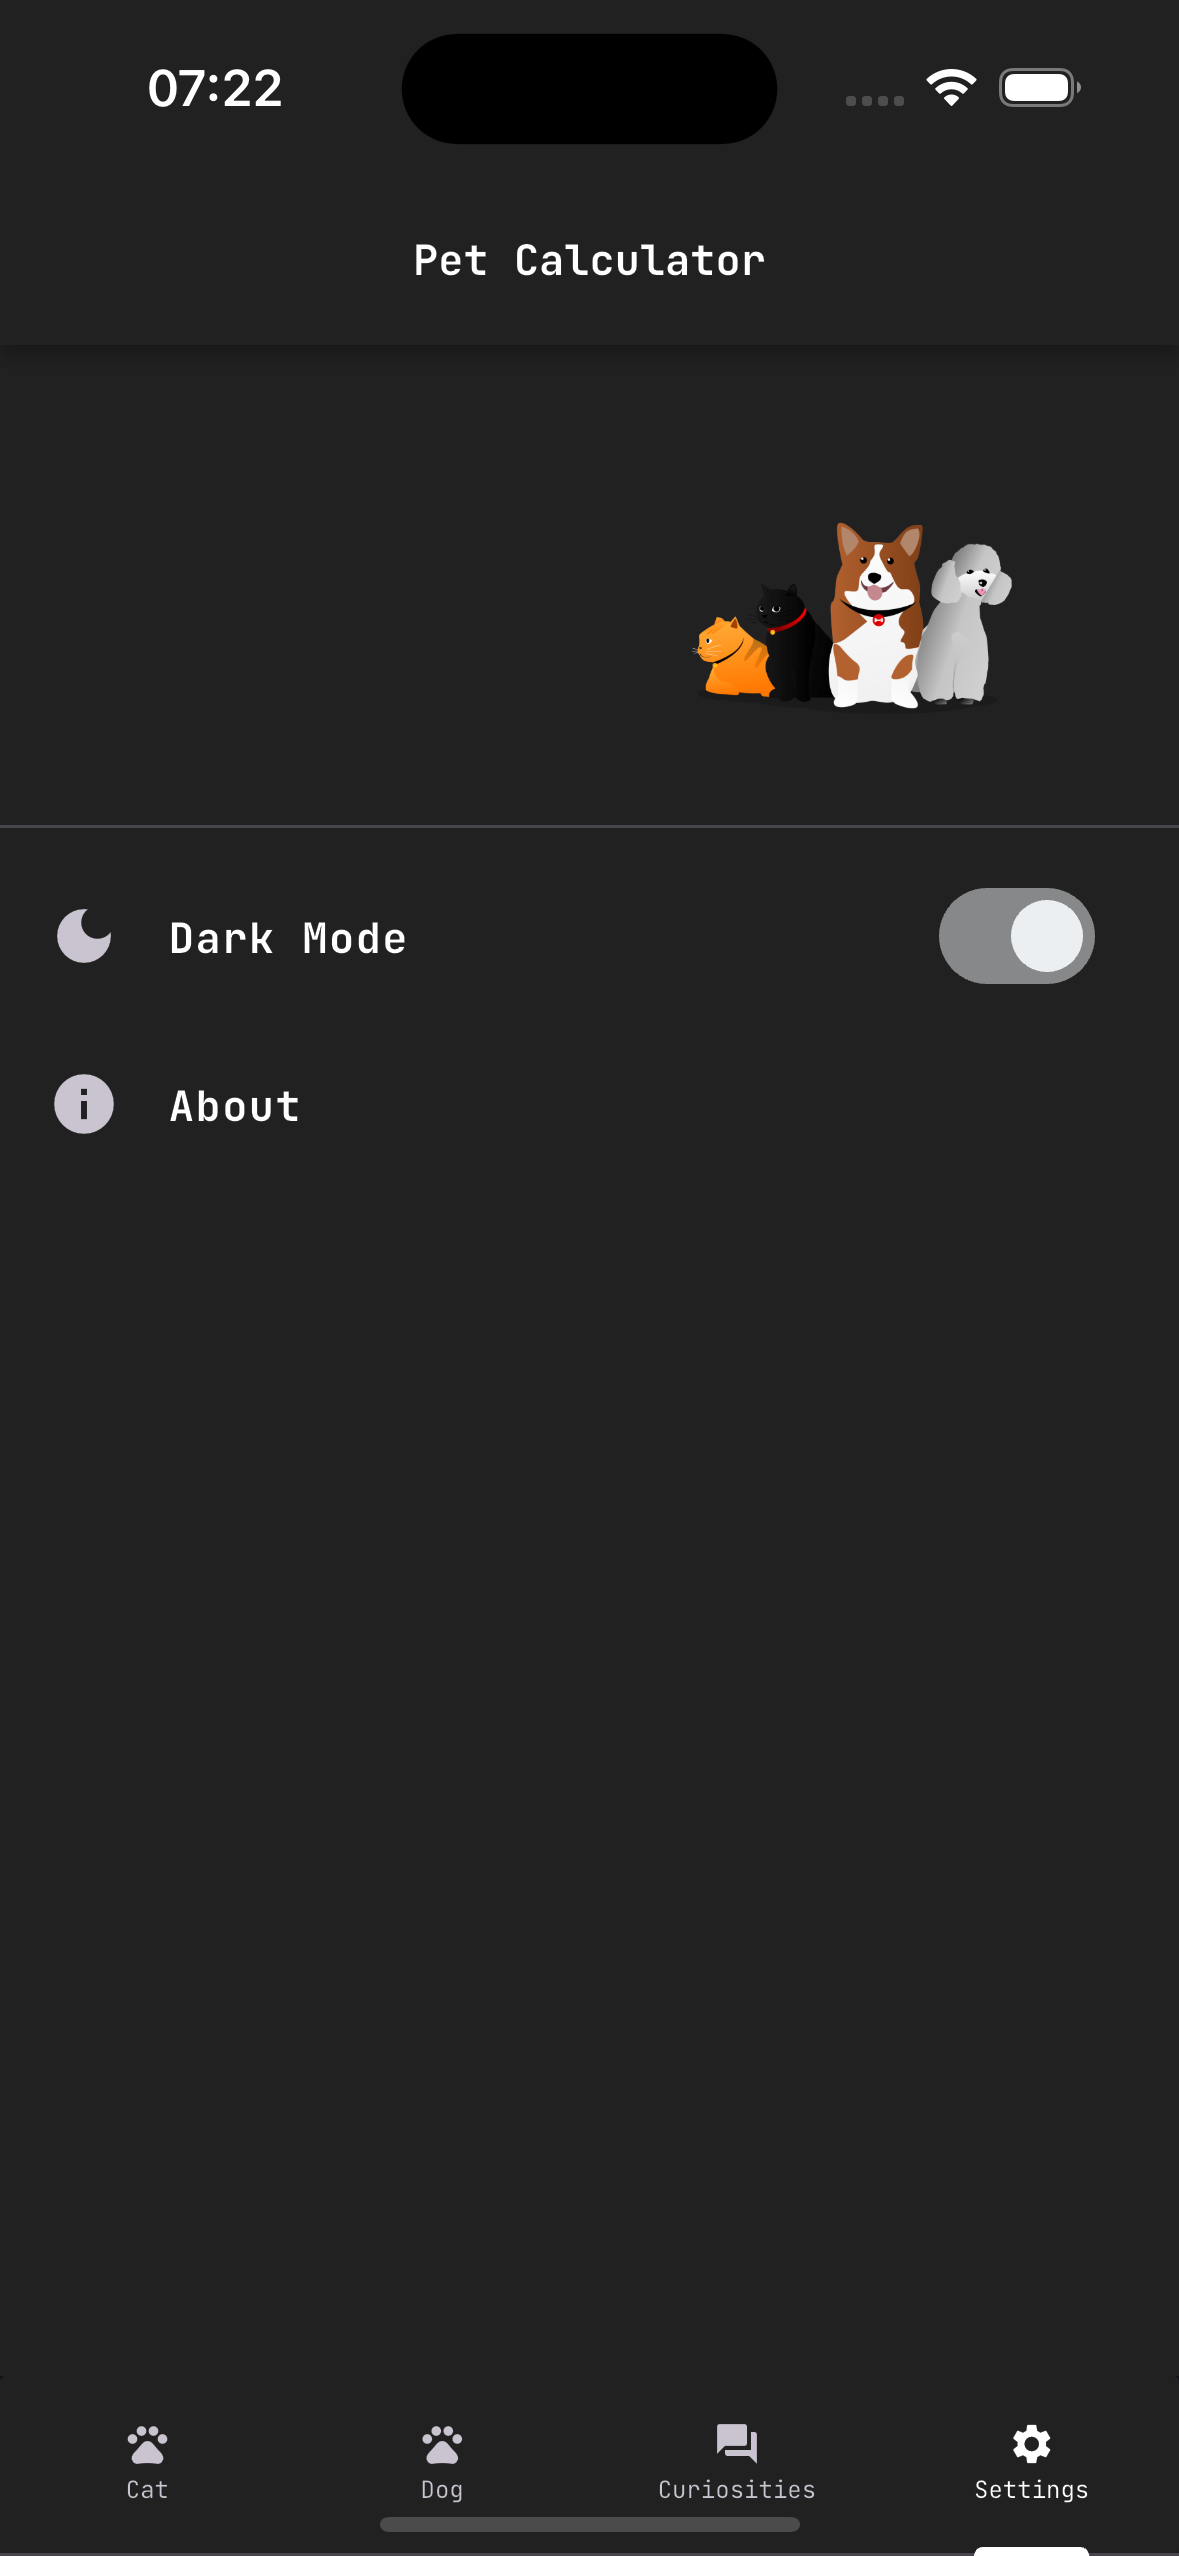
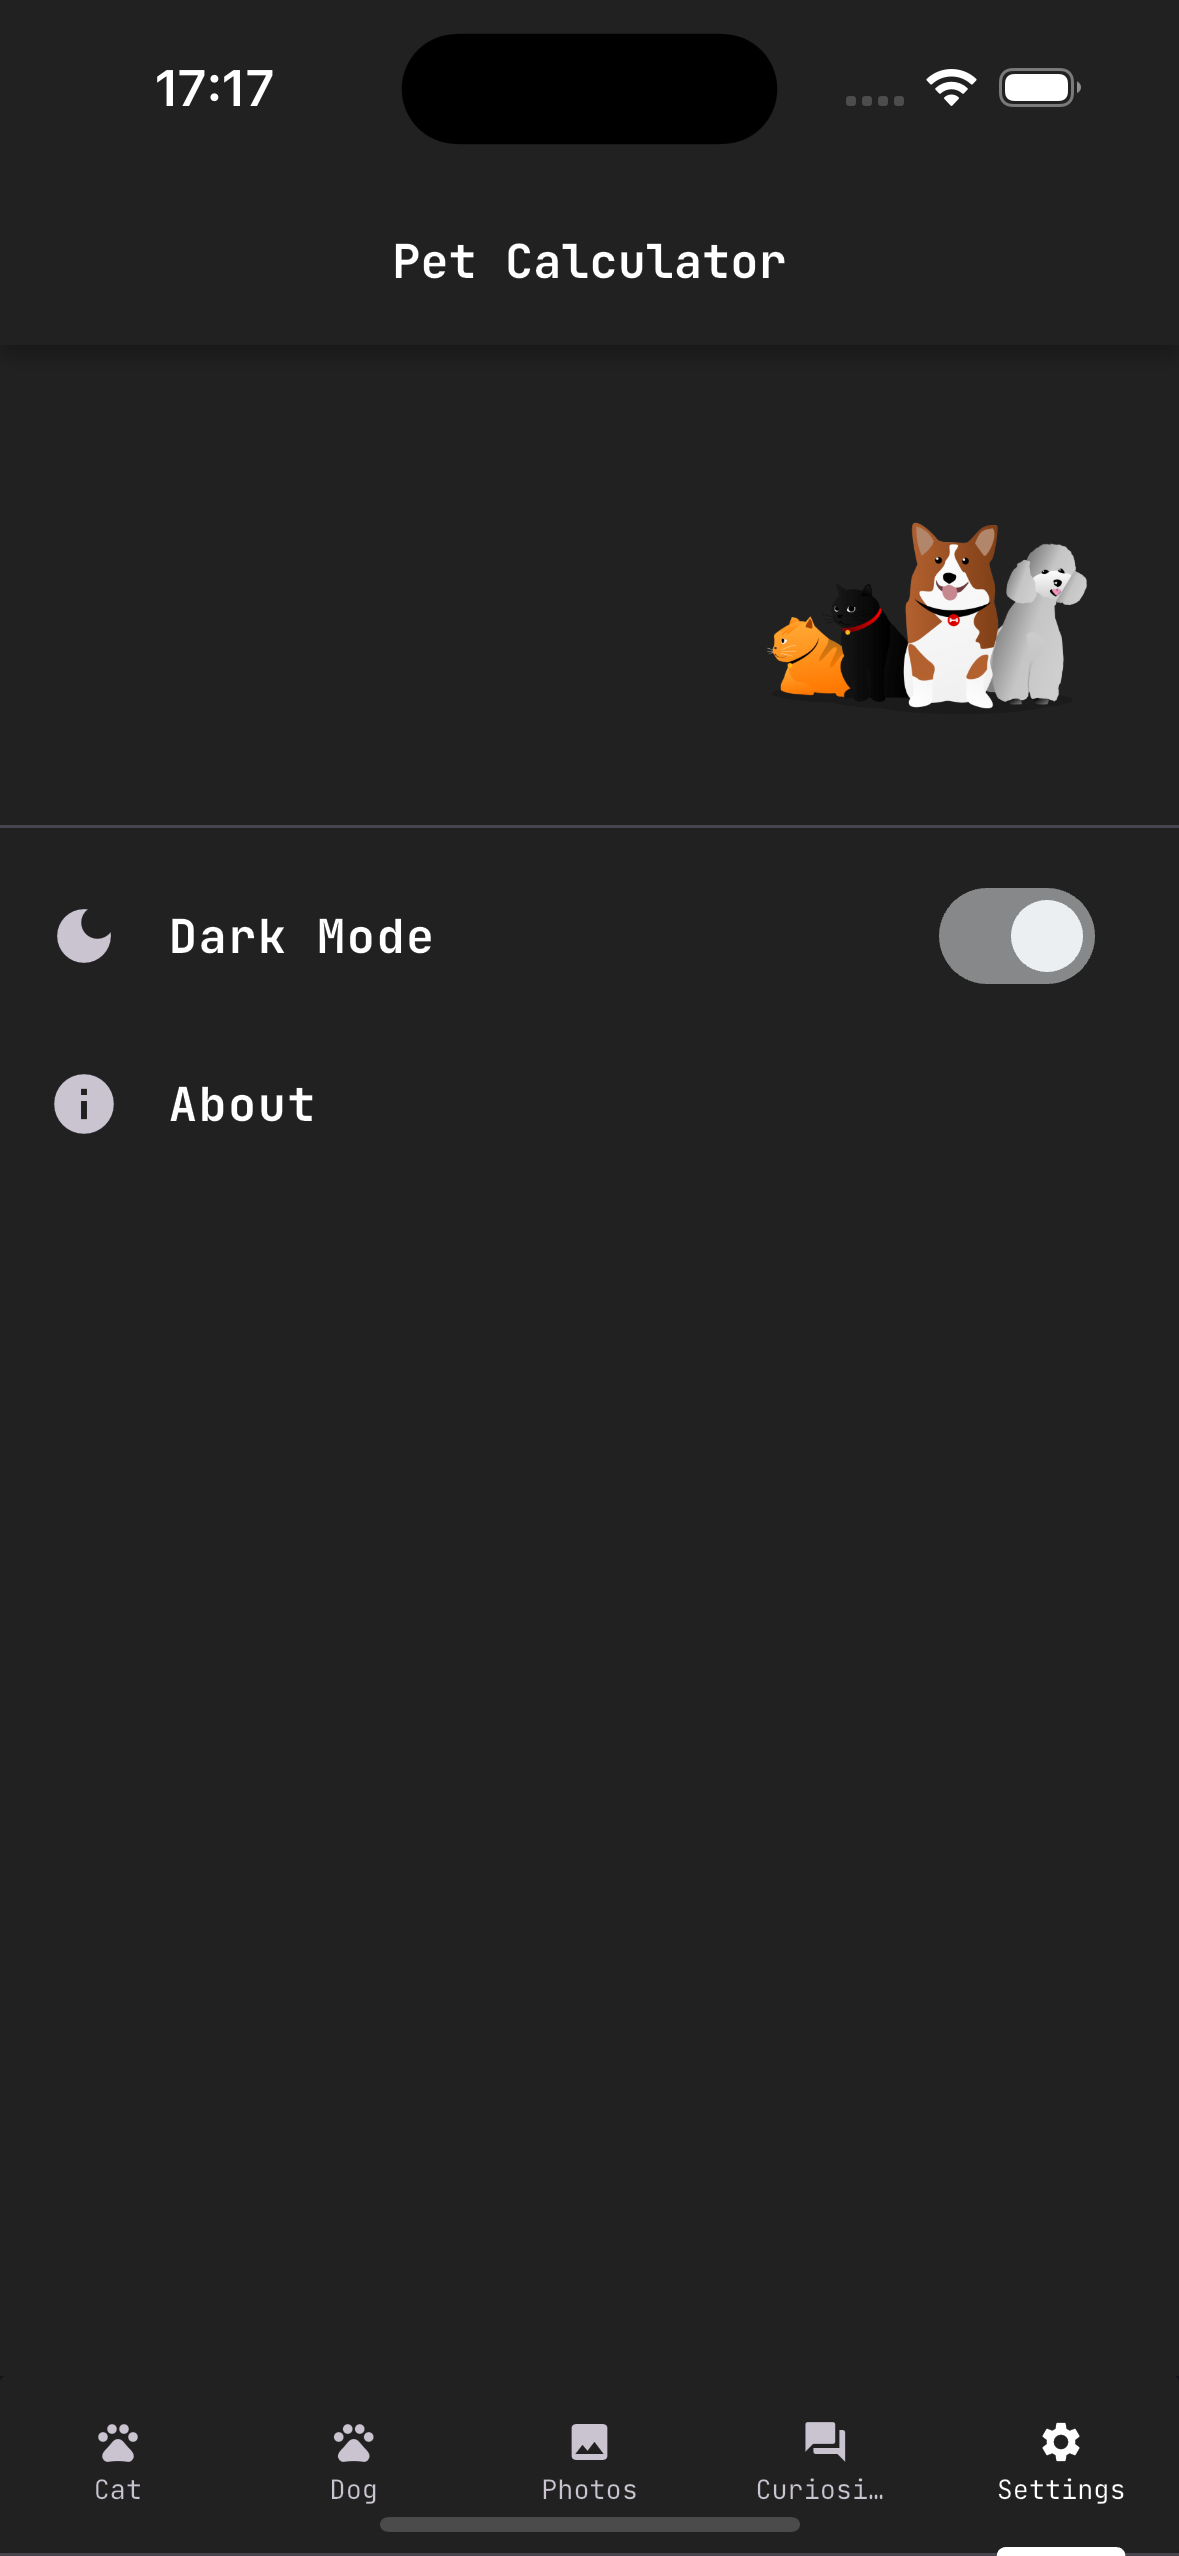
Add new assets

diff --git a/README.md b/README.md
@@ -38,7 +38,7 @@ Run the app:
 
 ### Version iOS:
 
-<img src="assets/imgs/intropageios.png" alt="intro page ios" width="250"> &nbsp; &nbsp; &nbsp; <img src="assets/imgs/homepageios.png" alt="home page ios" width="250"> &nbsp; &nbsp; &nbsp; <img src="assets/imgs/homepageios2.png" alt="home page ios 2" width="250"> &nbsp; &nbsp; &nbsp; <img src="assets/imgs/darkmodeios.png" alt="home page ios 2" width="250"> &nbsp; &nbsp; &nbsp; <img src="assets/imgs/aboutios.png" alt="home page ios 2" width="250">
+<img src="assets/imgs/intropageios.png" alt="intro page ios" width="250"> &nbsp; &nbsp; &nbsp; <img src="assets/imgs/homepageios.png" alt="home page ios" width="250"> &nbsp; &nbsp; &nbsp; <img src="assets/imgs/homepageios2.png" alt="home page ios 2" width="250"> &nbsp; &nbsp; &nbsp; <img src="assets/imgs/darkmodeios.png" alt="home page ios 2" width="250"> &nbsp; &nbsp; &nbsp; <img src="assets/imgs/curiosities.png" alt="home page ios 2" width="250"> &nbsp; &nbsp; &nbsp; <img src="assets/imgs/photos.png" alt="home page ios 2" width="250"> 
 
 ### Version Android:
 
